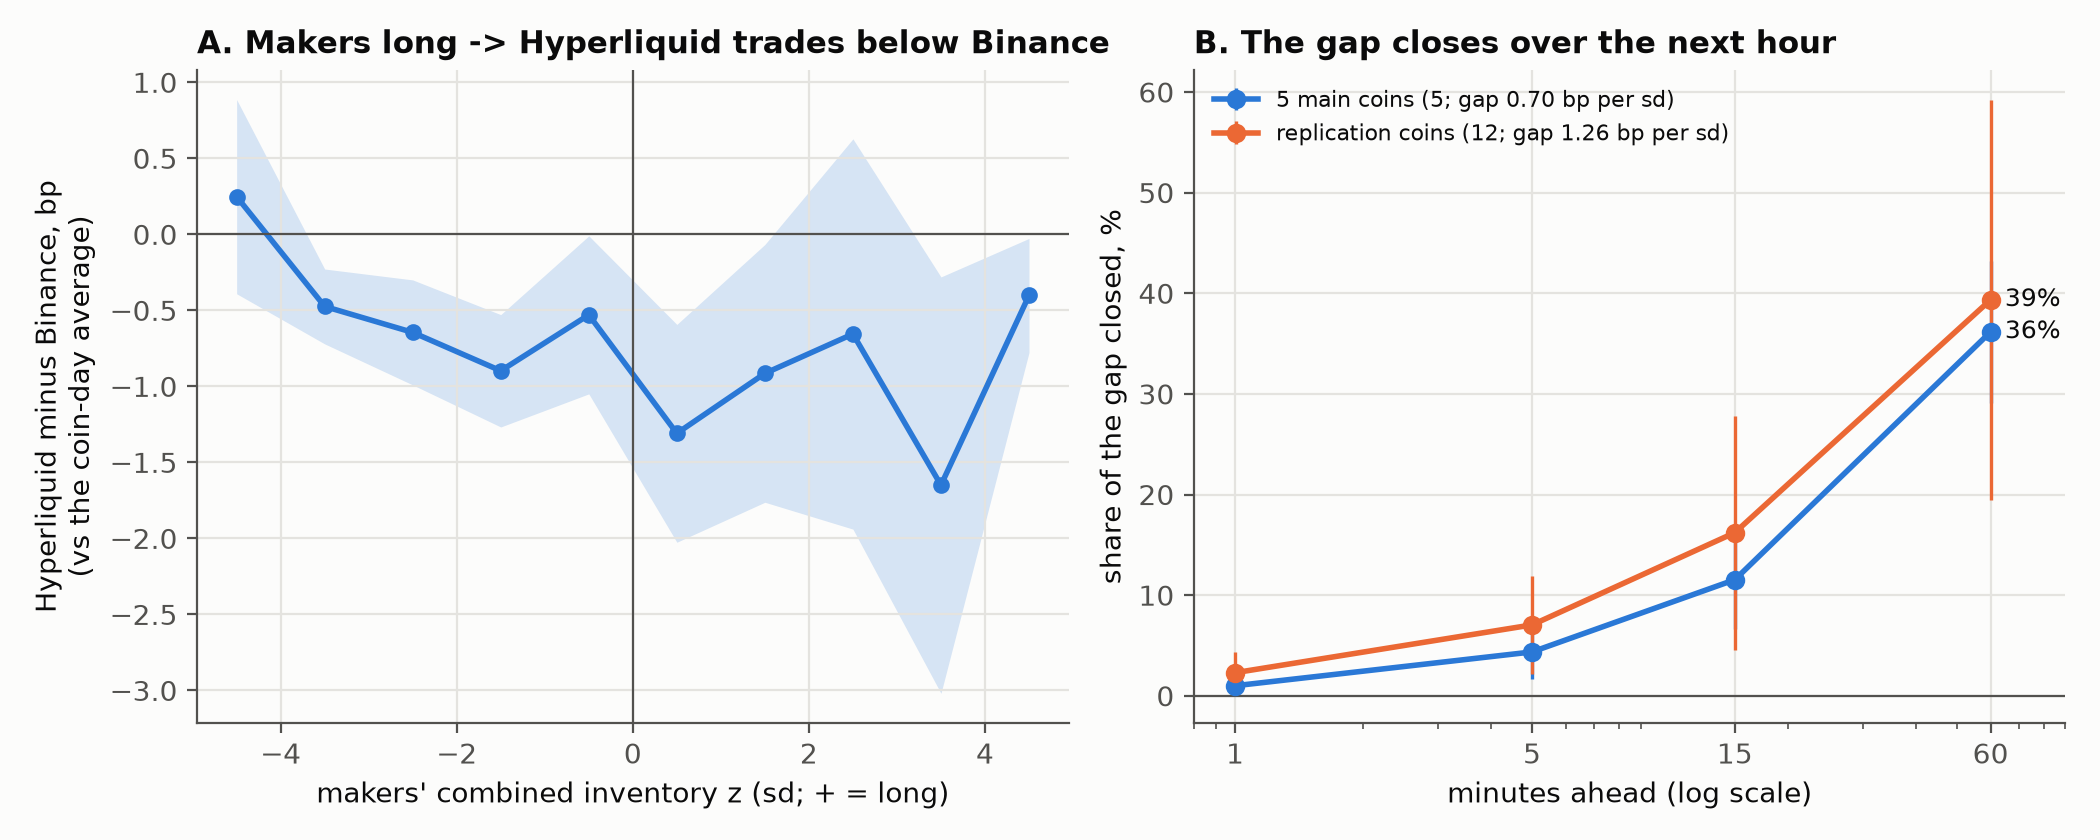
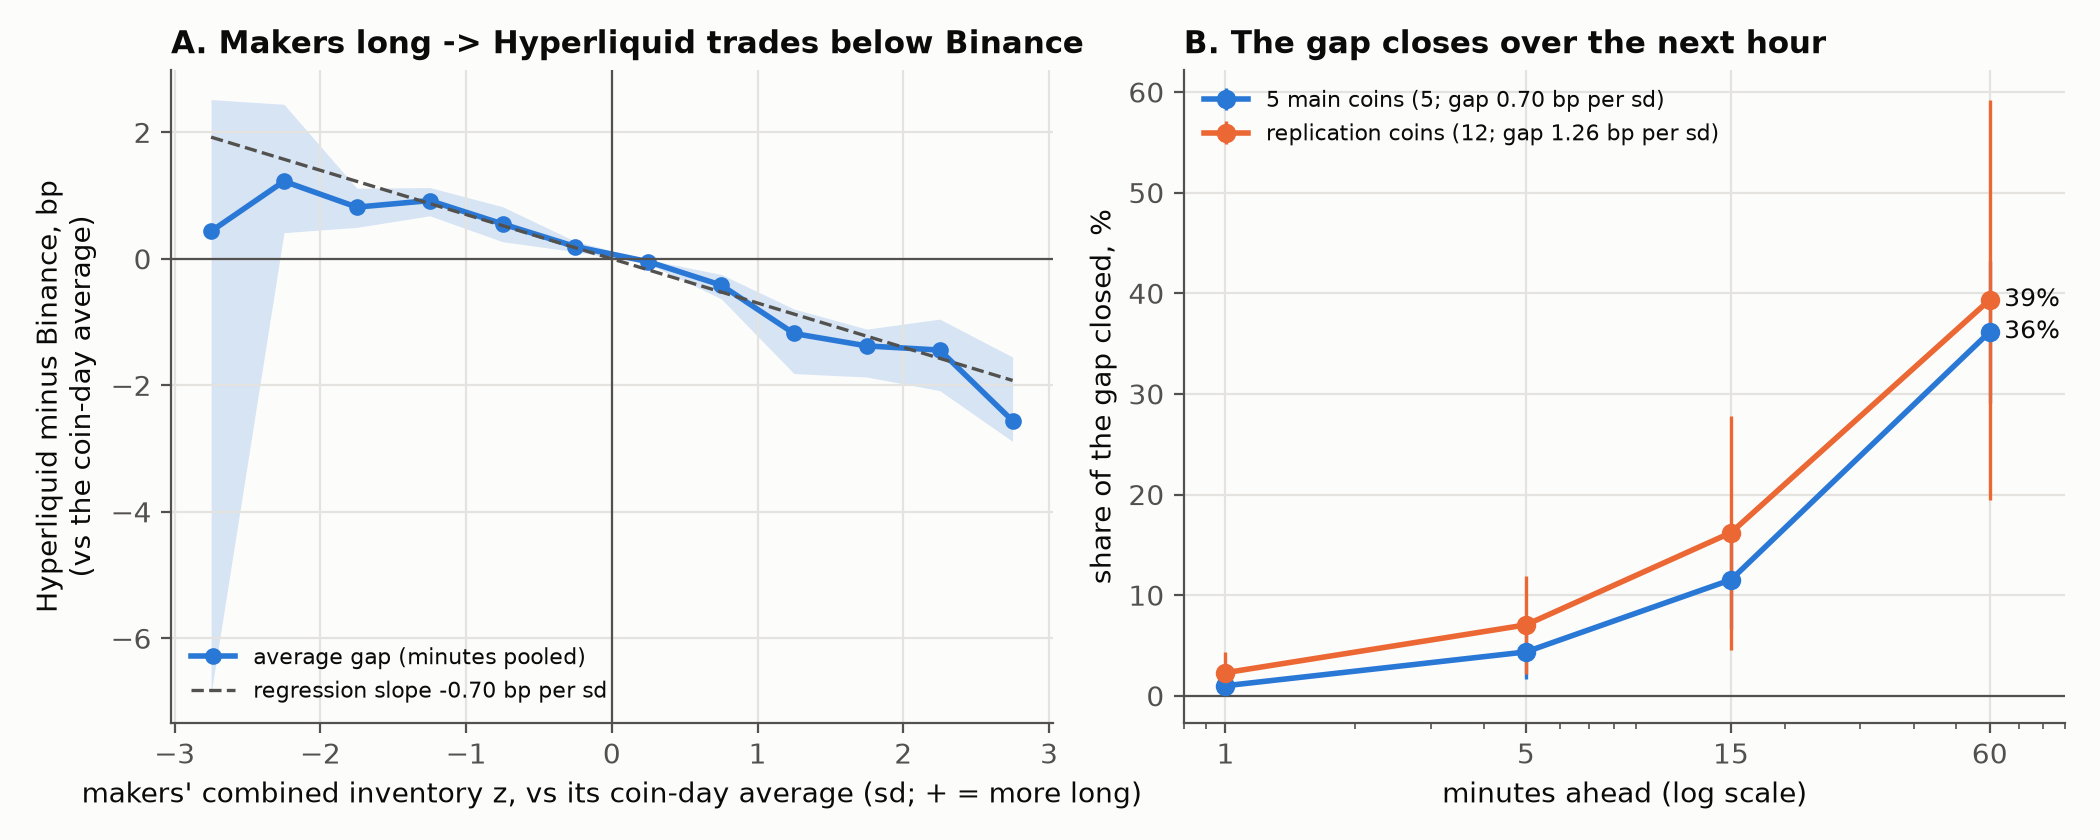
Figure 6 panel A: within coin-day binning

diff --git a/day27_fig_pressure.py b/day27_fig_pressure.py
@@ -4,8 +4,8 @@ Run (after day26, both runs):  python -W ignore E:\\p3\\day27_fig_pressure.py
 Reads   E:\\p3\\results\\part1_pressure_minutes.parquet, part1_pressure.csv (+ _replication if present)
 Saves   E:\\p3\\figures\\fig6_price_pressure.png / .pdf
 
-Panel A: the gap B (bp, minus its coin-day mean) by bins of maker inventory z; every coin weighted equally,
-         95% band across days.
+Panel A: the gap B (bp, minus its coin-day mean) by 0.5-sd bins of maker inventory z (also minus its coin-day mean, as in the regression); minutes pooled within a coin,
+         every coin weighted equally; 95% band from resampling days; dashed line = the H7a regression slope.
 Panel B: how much of the gap has closed h minutes later: b(h) / |a| for h = 1, 5, 15, 60 (H7b at each horizon
          divided by the H7a level), 5 main coins and the replication coins.
 """
@@ -42,14 +42,34 @@ plt.rcParams.update({"figure.facecolor": SURF, "axes.facecolor": SURF, "savefig.
 # ---- panel A data
 A = pd.read_parquet(mf, columns=["coin", "day", "z", "B"]).dropna()
 A["Bd"] = A["B"] - A.groupby(["coin", "day"])["B"].transform("mean")
-edges = np.arange(-5, 5.01, 1.0)
-A["bin"] = np.clip(np.searchsorted(edges, A["z"], side="right") - 1, 0, len(edges) - 2)
-per = A.groupby(["day", "coin", "bin"])["Bd"].mean().groupby(["day", "bin"]).mean()   # coins equal within a day
-g = per.groupby("bin")
+edges = np.arange(-3, 3.01, 0.5)
+A["zd"] = A["z"] - A.groupby(["coin", "day"])["z"].transform("mean")    # x within coin-day too, as the regression
+A["bin"] = np.clip(np.searchsorted(edges, A["zd"], side="right") - 1, 0, len(edges) - 2)
+# minutes pooled (as in the regression), every coin equal; 95% band by resampling days (500 draws, seed fixed)
+S = A.groupby(["day", "coin", "bin"])["Bd"].agg(["sum", "count"]).reset_index()
 mid = (edges[:-1] + edges[1:]) / 2
-mean = g.mean().reindex(range(len(mid)))
-se = (g.std() / np.sqrt(g.count())).reindex(range(len(mid)))
-ok = (g.count().reindex(range(len(mid))) >= 5).to_numpy()   # a bin needs 5+ days
+nb = len(mid)
+
+
+def curve(Sx):
+    cb = Sx.groupby(["coin", "bin"])[["sum", "count"]].sum()
+    cm = (cb["sum"] / cb["count"]).where(cb["count"] >= 200)            # a coin-bin needs 200+ minutes
+    return cm.groupby("bin").mean().reindex(range(nb))                  # coins equal
+
+
+mean = curve(S)
+days = S["day"].unique()
+rng = np.random.default_rng(20261114)
+idx = {d: g for d, g in S.groupby("day")}
+boot = []
+for _ in range(500):
+    pick = rng.choice(days, len(days), replace=True)
+    boot.append(curve(pd.concat([idx[d] for d in pick], ignore_index=True)).to_numpy())
+boot = np.array(boot)
+lo_b, hi_b = np.nanpercentile(boot, 2.5, axis=0), np.nanpercentile(boot, 97.5, axis=0)
+ok = mean.notna().to_numpy()
+r0 = pd.read_csv(cf)
+a_main = float(r0.loc[r0["test"] == "H7a", "value"].iat[0]) if (r0["test"] == "H7a").any() else np.nan
 
 # ---- panel B data
 def path(csv):
@@ -73,12 +93,16 @@ rep = path(os.path.join(RES, "part1_pressure_replication.csv"))
 
 fig, ax = plt.subplots(1, 2, figsize=(10.5, 4.2))
 a0 = ax[0]
-a0.fill_between(mid[ok], (mean - 1.96 * se)[ok], (mean + 1.96 * se)[ok], color=C1, alpha=0.18, linewidth=0)
-a0.plot(mid[ok], mean[ok], color=C1, linewidth=2, marker="o", markersize=5)
+a0.fill_between(mid[ok], lo_b[ok], hi_b[ok], color=C1, alpha=0.18, linewidth=0)
+a0.plot(mid[ok], mean[ok], color=C1, linewidth=2, marker="o", markersize=5, label="average gap (minutes pooled)")
+if np.isfinite(a_main):
+    xs = np.array([mid[ok].min(), mid[ok].max()])
+    a0.plot(xs, a_main * xs, color=INK2, linewidth=1.2, linestyle="--", label=f"regression slope {a_main:+.2f} bp per sd")
+    a0.legend(fontsize=8, loc="lower left")
 a0.axhline(0, color=INK2, linewidth=0.8)
 a0.axvline(0, color=INK2, linewidth=0.8)
 a0.set_title("A. Makers long -> Hyperliquid trades below Binance", loc="left")
-a0.set_xlabel("makers' combined inventory z (sd; + = long)")
+a0.set_xlabel("makers' combined inventory z, vs its coin-day average (sd; + = more long)")
 a0.set_ylabel("Hyperliquid minus Binance, bp\n(vs the coin-day average)")
 
 a1 = ax[1]
